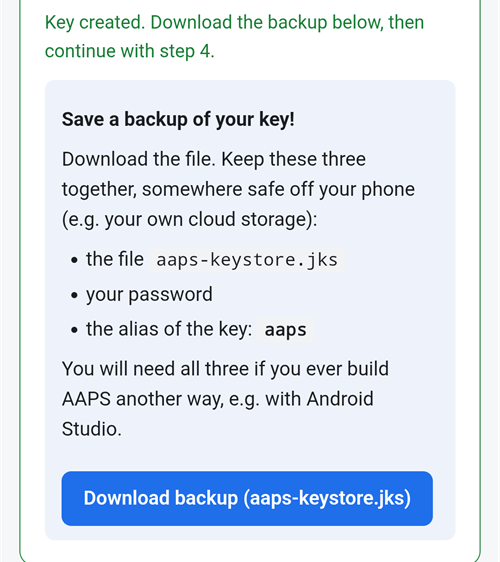
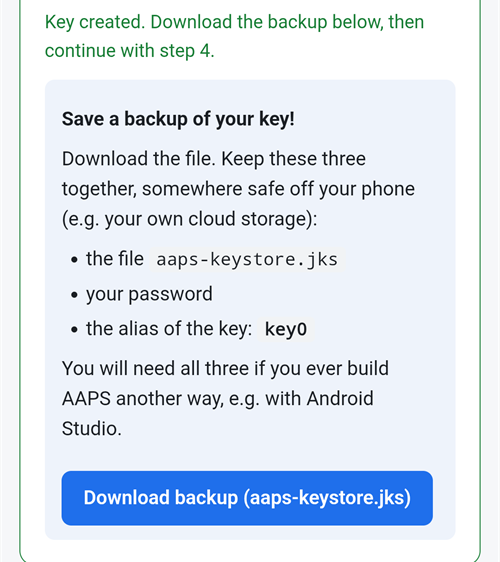
Return alias to key0

diff --git a/docs/EN/_html/aaps-builder.app.js b/docs/EN/_html/aaps-builder.app.js
@@ -271,9 +271,9 @@
       const subject = [{ name: 'commonName', value: 'AAPS' }];
       cert.setSubject(subject); cert.setIssuer(subject);
       cert.sign(key, forge.md.sha256.create());
-      const asn = forge.pkcs12.toPkcs12Asn1(key, [cert], p1, { algorithm: '3des', friendlyName: 'aaps', generateLocalKeyId: true });
+      const asn = forge.pkcs12.toPkcs12Asn1(key, [cert], p1, { algorithm: '3des', friendlyName: 'key0', generateLocalKeyId: true });
       newKsBytes = binStrToBytes(forge.asn1.toDer(asn).getBytes());
-      setSecret(newKsBytes, p1, 'aaps', p1);
+      setSecret(newKsBytes, p1, 'key0', p1);
       $('backupBox').hidden = false;
       msg('newMsg', M.okNew, 'ok');
     } catch (e) {

diff --git a/docs/EN/_html/aaps-builder.html b/docs/EN/_html/aaps-builder.html
@@ -191,7 +191,7 @@
         <ul class="small">
           <li>the file <code>aaps-keystore.jks</code></li>
           <li>your password</li>
-          <li>the alias of the key: <b><code>aaps</code></b></li>
+          <li>the alias of the key: <b><code>key0</code></b></li>
         </ul>
         <p>You will need all three if you ever build AAPS another way, e.g. with Android Studio.</p>
         <button class="btn" id="downloadKs">Download backup (aaps-keystore.jks)</button>

diff --git a/docs/EN/SettingUpAaps/BrowserBuildAapsBuilder.md b/docs/EN/SettingUpAaps/BrowserBuildAapsBuilder.md
@@ -53,7 +53,7 @@ A private repository gets 2000 free GitHub Actions minutes per month, which is e
 - **You already have AAPS on your phone, built with a keystore you still have**: choose **I already have a keystore** on the setup page and upload it. Your next build will update AAPS in place.
 - **You build AAPS for the first time, or you lost your keystore or its password**: choose **Create a new key**. An app signed with a new key **cannot update** an AAPS signed with another key. You must export your settings, copy the file off your phone, uninstall the old AAPS, install the new one, then import your settings: see [Lost keystore](#troubleshooting_androidstudio-lost-keystore).
 
-Always keep using the same key afterwards. When you create a new key, download the backup the page offers and store it with its password and its alias (`aaps`) somewhere safe, off your phone.
+Always keep using the same key afterwards. When you create a new key, download the backup the page offers and store it with its password and its alias (`key0`) somewhere safe, off your phone.
 ```
 
 ## Open the setup page
@@ -165,9 +165,9 @@ The page checks the password and the alias on your device. **Keystore OK! Contin
 
    - the file `aaps-keystore.jks`,
    - your password,
-   - the alias of the key: **`aaps`**.
+   - the alias of the key: **`key0`**.
 
-   You need all three if you ever build AAPS another way, for example with Android Studio.
+   You need all three if you ever build AAPS another way, for example with Android Studio. Keys created with an earlier version of the setup page have the alias `aaps`.
 
    ![Key created and the backup box](../images/Building-the-App/CI/AapsBuilder42_KeyCreated.png)
 
